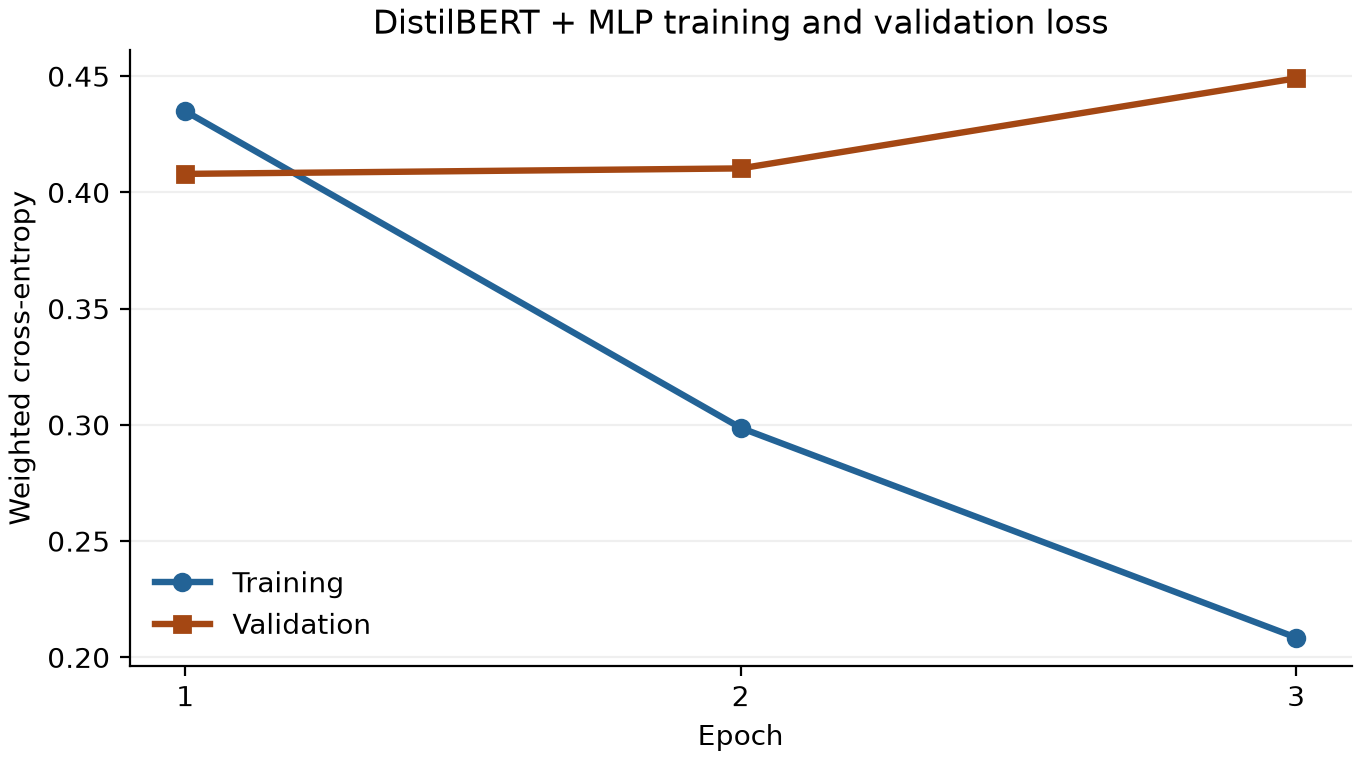
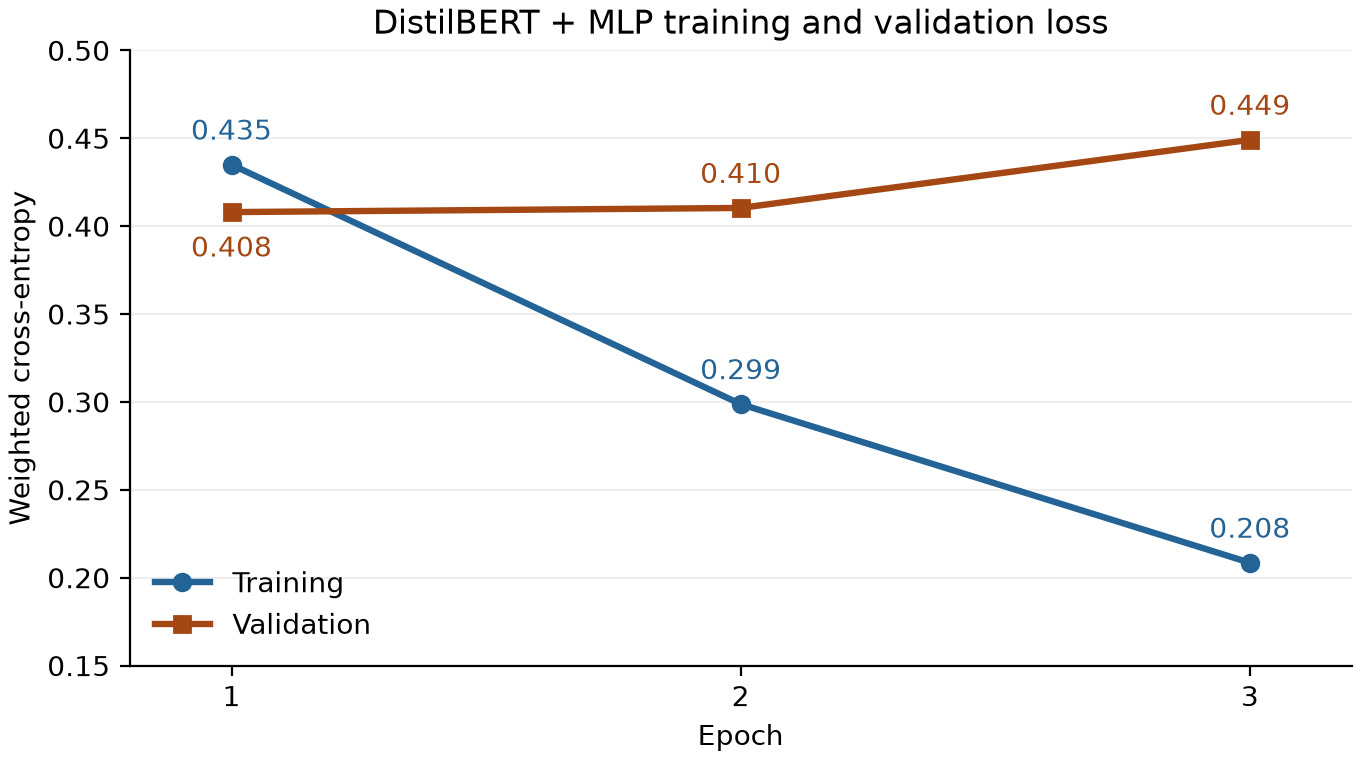
fix return value of plot_distilbert_loss

diff --git a/lib/plot_distilbert_loss.py b/lib/plot_distilbert_loss.py
@@ -59,3 +59,5 @@ def ensure_loss_plot_created():
   plt.close(fig)
   
   print(f'DistilBERT loss curves chart saved to {DISTILBERT_LOSS_CURVES_PATH}')
+  
+  return True
